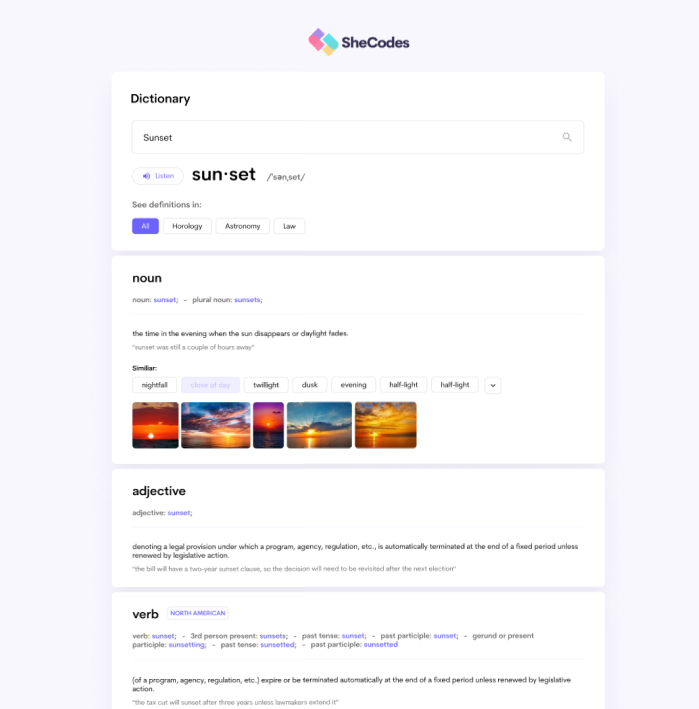
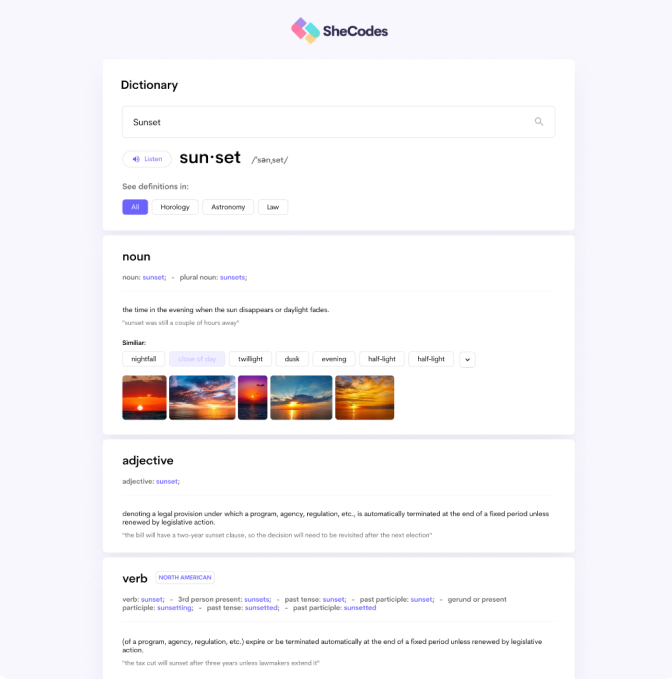
added Work and About pages

diff --git a/work.html b/work.html
@@ -1,0 +1,50 @@
+<!DOCTYPE html>
+<html lang="en">
+<head>
+    <meta charset="UTF-8">
+    <meta name="viewport" content="width=device-width, initial-scale=1.0">
+    <title>Document</title>
+
+    <link href="https://cdn.jsdelivr.net/npm/bootstrap@5.3.2/dist/css/bootstrap.min.css" 
+          rel="stylesheet" 
+          integrity="sha384-T3c6CoIi6uLrA9TneNEoa7RxnatzjcDSCmG1MXxSR1GAsXEV/Dwwykc2MPK8M2HN" 
+          crossorigin="anonymous">
+    <script src="https://cdn.jsdelivr.net/npm/bootstrap@5.3.2/dist/js/bootstrap.bundle.min.js" integrity="sha384-C6RzsynM9kWDrMNeT87bh95OGNyZPhcTNXj1NW7RuBCsyN/o0jlpcV8Qyq46cDfL" crossorigin="anonymous"></script>
+    
+    <link rel="stylesheet" href="style.css">
+
+   <link rel="preconnect" href="https://fonts.googleapis.com">
+   <link rel="preconnect" href="https://fonts.gstatic.com" crossorigin>
+   <link href="https://fonts.googleapis.com/css2?family=Playfair+Display:wght@700&family=Poppins:wght@400;500;700&display=swap" rel="stylesheet">
+        
+
+    <script src="https://kit.fontawesome.com/c2ad4dae29.js" crossorigin="anonymous"></script>
+</head>
+<body>
+    <div class="content-container">
+        <h1>Take a look at what I've been working on!</h1>
+        <div class="container">
+
+            <div class="row">
+                <div class="col-md">
+                    <img src="/src/yogurt.png" class="img-fluid"/>
+                </div>
+                <div class="col-md">
+                    <img src="/src/weather.png" class="img-fluid"/>
+                </div>
+            </div>
+
+            <div class="row">
+                <div class="col-md">
+                    <img src="/src/dictionary.png" class="img-fluid"/>
+                </div>
+                <div class="col-md">
+                    <img src="/src/translator.png" class="img-fluid"/>
+                </div>
+            </div>
+
+
+        </div>
+    </div>
+</body>
+</html>

diff --git a/style.css b/style.css
@@ -82,12 +82,14 @@ h1 {
 }
 
 
-
+.container .col-md {
+    margin: 30px 35px;
+}
 
 
 /*about-page*/
 
-    .flex-container {
+    .content-container {
         display: flex;
         justify-content: space-evenly;
         padding: 160px 24px;
@@ -130,47 +132,17 @@ h1 {
       }
     
 
+      /*work page*/
 
-      @media (max-width: 960px) {
-        .hero {
-            padding: 100px 16px;
-        }
-    
-        h1 {
-            font-size: 50px;
-        }
-    
-        .header-second-page {
-            margin-top: 20px;
-            margin-bottom: 20px;
-        }
-        
-          .container h2  {
-                margin: 20px;
-                text-align: center;
-                font-size: 36px;
-            }
-    
-            .container {
-                text-align: center;
-                display: inline;
-            }
-    
-            .container p {
-                margin-left: 10px;
-                margin-right: 10px;
-                text-align: center;
-            }
-    
-            .about-info {
-                text-align: center;
-                margin-top: 20px;
-            }
+.work h1 {
+    text-align: left;
+    font-size: 64px;
+    width: 825px;
+}
 
-
-
-
-
+.content-container {
+    display: block;  
+}
             @media (max-width: 960px) {
     .hero {
         padding: 100px 16px;
@@ -223,4 +195,3 @@ h1 {
         }
        
     }
-}

diff --git a/index.html b/index.html
@@ -55,7 +55,7 @@
 </div>
 <p class="header-second-page">Featured Project which my best projects be choice to show</p>
 <div class="container">
-    <div class="row gy-5 gx-5">
+    <div class="row">
         <div class="col-md d-none d-md-block">
             <img src="src/yogurt.png" class="img-fluid"/>
         </div>
@@ -68,7 +68,7 @@
         </div>
 </div>
 
-        <div class="row gy-5 gx-5">
+        <div class="row">
         <div class="col-md">
             <h2>Weather App</h2>
             <p>Far far away, behind the word mountains, far from the countries Vokalia and Consonantia, 
@@ -76,12 +76,12 @@
                 a large language ocean. A small river named Duden flows by</p>
             <button type="button" class="btn btn-primary">View detail project</button>
         </div>
-        <div class="col-md  d-none d-md-block">
+        <div class="col-md d-none d-md-block">
             <img src="src/weather.png" class="img-fluid"/>
         </div>
         </div>
 
-        <div class="row gy-5 gx-5">
+        <div class="row">
         <div class="col-md  d-none d-md-block">
             <img src="src/dictionary.png" class="img-fluid"/>
         </div>

diff --git a/about.html b/about.html
@@ -18,14 +18,13 @@
     <script src="https://kit.fontawesome.com/c2ad4dae29.js" crossorigin="anonymous"></script>
 </head>
 <body>
-    <div class="flex-container">
+    <div class="content-container">
 <div class="about-info">
         <h1 class="mb-4">Hi I am Patricia Pereira</h1>
         <h2 class="mb-4">Frontend Developer, based in Portugal</h2>
         <p class="mb-4">For anyone who wants to start learning code, this workshop is very interesting. You will be challenged  with different exercises, and everything is well explained, homework and deadlines are good for keep focus</p>
         <button type="button" class="btn btn-primary">View all projects</button>
-    </div>
-
+</div>
         <div class="about-photo">
         <img src="/src/photo.png" class="image-fluid d-none d-md-block"/>
     </div>
